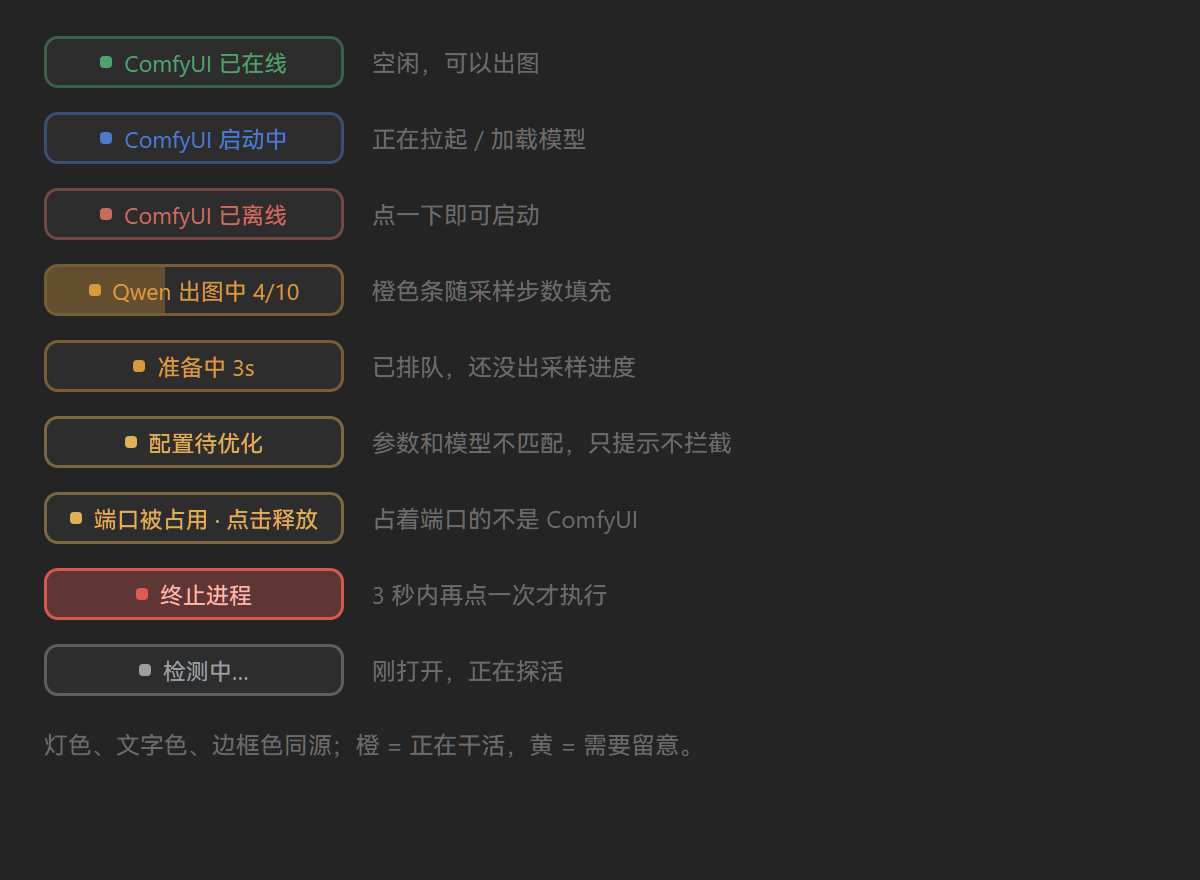
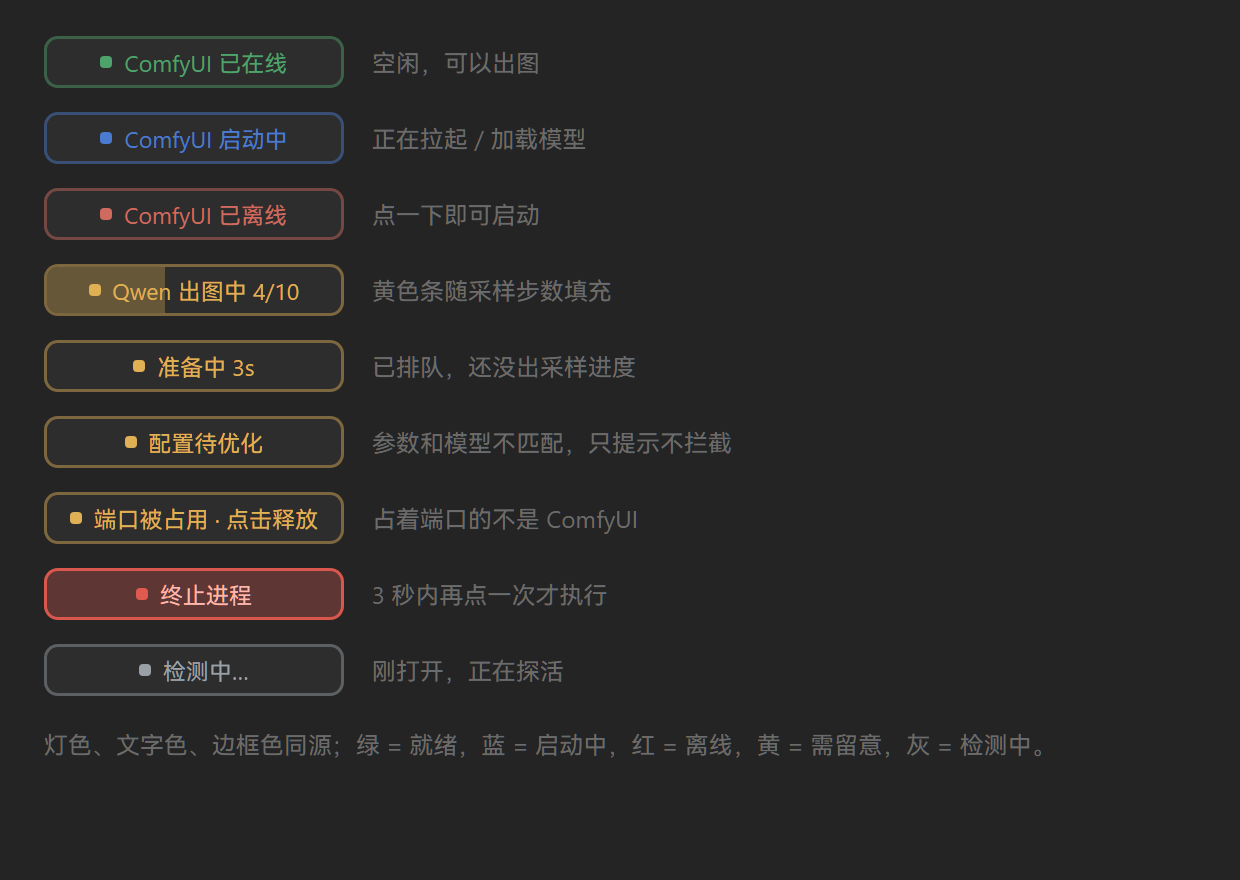
style: 橙色并入黄色，全插件只剩一种警告色
出图中 / 准备中之前用的是橙 #d99a3c，和配置待优化、端口被占用的黄 #e0b054
是两种颜色。我上一轮只统一了端口被占用，橙色没动，所以胶囊上其实还有两个
暖色。

现在 #d99a3c 全部改成 #e0b054：
- .qwd-seat-busy 的灯色和文字色
- 出图进度条的半透明填充（rgba(217,154,60,.32) → rgba(224,176,84,.32)）

警告色现在只有一种黄 #e0b054，出图进度也是它。README 示意图同步：
九种状态里的暖色只剩黄，说明改成「绿 = 就绪，蓝 = 启动中，红 = 离线，
黄 = 需留意，灰 = 检测中」。

diff --git a/client.js b/client.js
@@ -2274,8 +2274,8 @@ const SEAT_STYLE = `
   content: '';
   position: absolute; left: 0; top: 0; bottom: 0;
   width: var(--qwd-fill, 0%);
-  /* 和「出图中」的状态色 #d99a3c 同系，半透明铺底 */
-  background: rgba(217, 154, 60, .32);
+  /* 和「出图中」的状态色 #e0b054 同系，半透明铺底 */
+  background: rgba(224, 176, 84, .32);
   transition: width 450ms cubic-bezier(.22, 1, .36, 1);
   pointer-events: none;
 }
@@ -2285,7 +2285,7 @@ const SEAT_STYLE = `
    否则「准备中 3s」「出图中 4/10」这种正在干活的胶囊会和灯色对不上。
    检测中（unknown）本来就是中性灰，文字也用同色，读起来更统一。 */
 .qwd-seat-on { --qwd-seat-dot: #4ea36b; color: #4ea36b; }
-.qwd-seat-busy { --qwd-seat-dot: #d99a3c; color: #d99a3c; }
+.qwd-seat-busy { --qwd-seat-dot: #e0b054; color: #e0b054; }
 .qwd-seat-starting { --qwd-seat-dot: #4a7bd0; color: #4a7bd0; }
 .qwd-seat-off { --qwd-seat-dot: #cf6a5f; color: #cf6a5f; }
 .qwd-seat-unknown { --qwd-seat-dot: #9aa0a6; color: #9aa0a6; }
@@ -2307,8 +2307,9 @@ const SEAT_STYLE = `
 .qwd-seat-stop-confirm:hover { border-color: rgba(245, 132, 122, .98); }
 /* 出图中点胶囊时胶囊带进度填充层，待确认态要让位给整块红底 */
 .qwd-seat-stop-confirm::before { display: none; }
-/* 端口被占用归到「需要留意」这一档，和「配置待优化」同色。
-   胶囊的黄系现在只有两档：#d99a3c 橙 = 正在干活，#e0b054 黄 = 需要留意。 */
+/* 全插件的警告色只有一种：#e0b054。
+   配置待优化、端口被占用、出图中、准备中，以及设置页里所有预警文字，
+   用的是同一个黄；出图的进度填充也取它的半透明版。 */
 .qwd-seat-zombie { --qwd-seat-dot: #e0b054; color: #e0b054; }
 .qwd-seat-checking { --qwd-seat-dot: #8b6fd0; color: #a08fe0; }
 /* 「配置待优化」不再单独铺黄色底：胶囊里唯一该有填充的是出图进度条，
